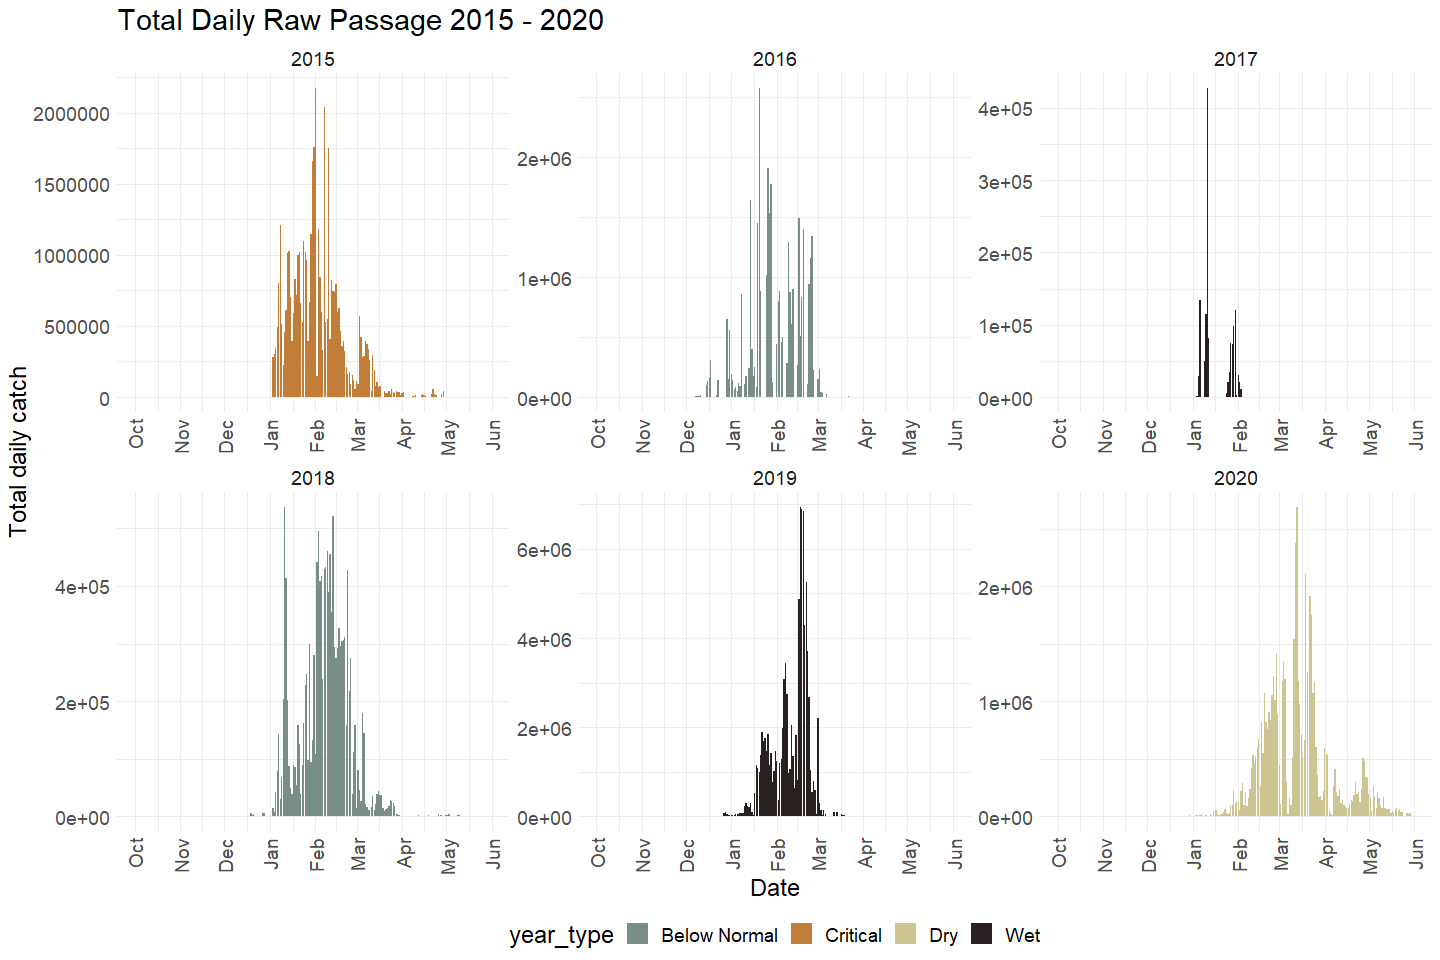
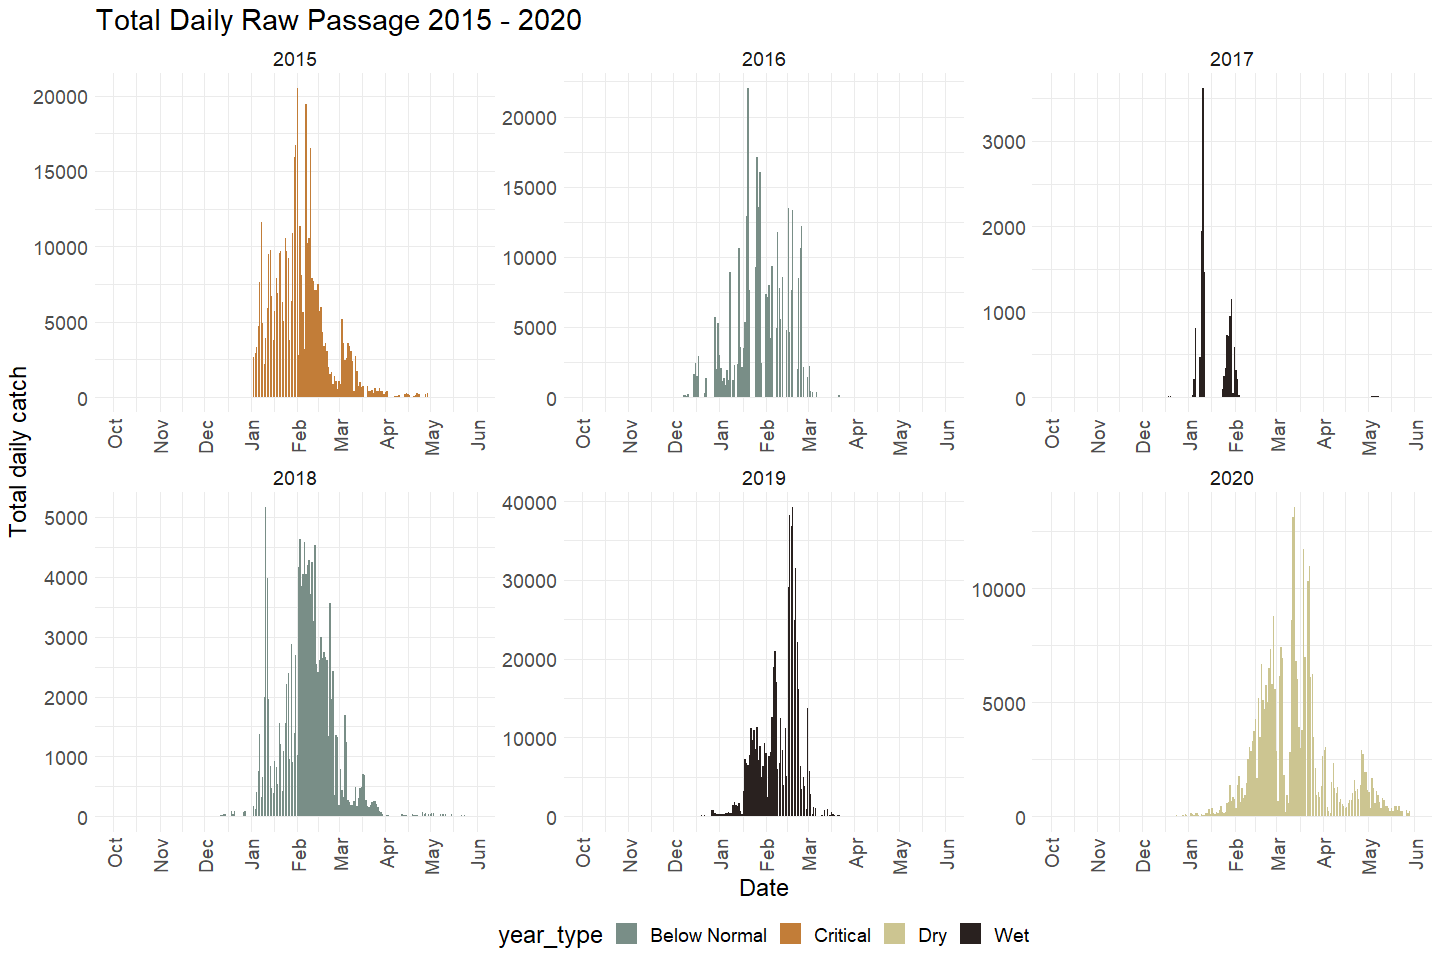
Updates feather river rst plot

diff --git a/scripts/rst/feather-river/feather-rst.md b/scripts/rst/feather-river/feather-rst.md
@@ -217,6 +217,8 @@ summary(cleaner_catch_data$fork_length)
 
 ``` r
 cleaner_catch_data %>% 
+  group_by(date) %>%
+  summarise(total_daily_catch = sum(count)) %>%
   filter(year(date) > 2014, year(date) < 2021) %>%
   mutate(water_year = ifelse(month(date) %in% 10:12, year(date) + 1, year(date))) %>% 
   left_join(sac_indices) %>%
@@ -224,9 +226,6 @@ cleaner_catch_data %>%
          fake_year = if_else(month(date) %in% 10:12, 1900, 1901),
          fake_date = as.Date(paste0(fake_year,"-", month(date), "-", day(date)))) %>%
   filter(water_year < 2021) %>%
-  group_by(date) %>%
-  mutate(total_daily_catch = sum(count)) %>%
-  ungroup() %>%
   ggplot(aes(x = fake_date, y = total_daily_catch, fill = year_type)) + 
   geom_col() + 
   scale_x_date(labels = date_format("%b"), limits = c(as.Date("1900-10-01"), as.Date("1901-06-01")), date_breaks = "1 month") + 
